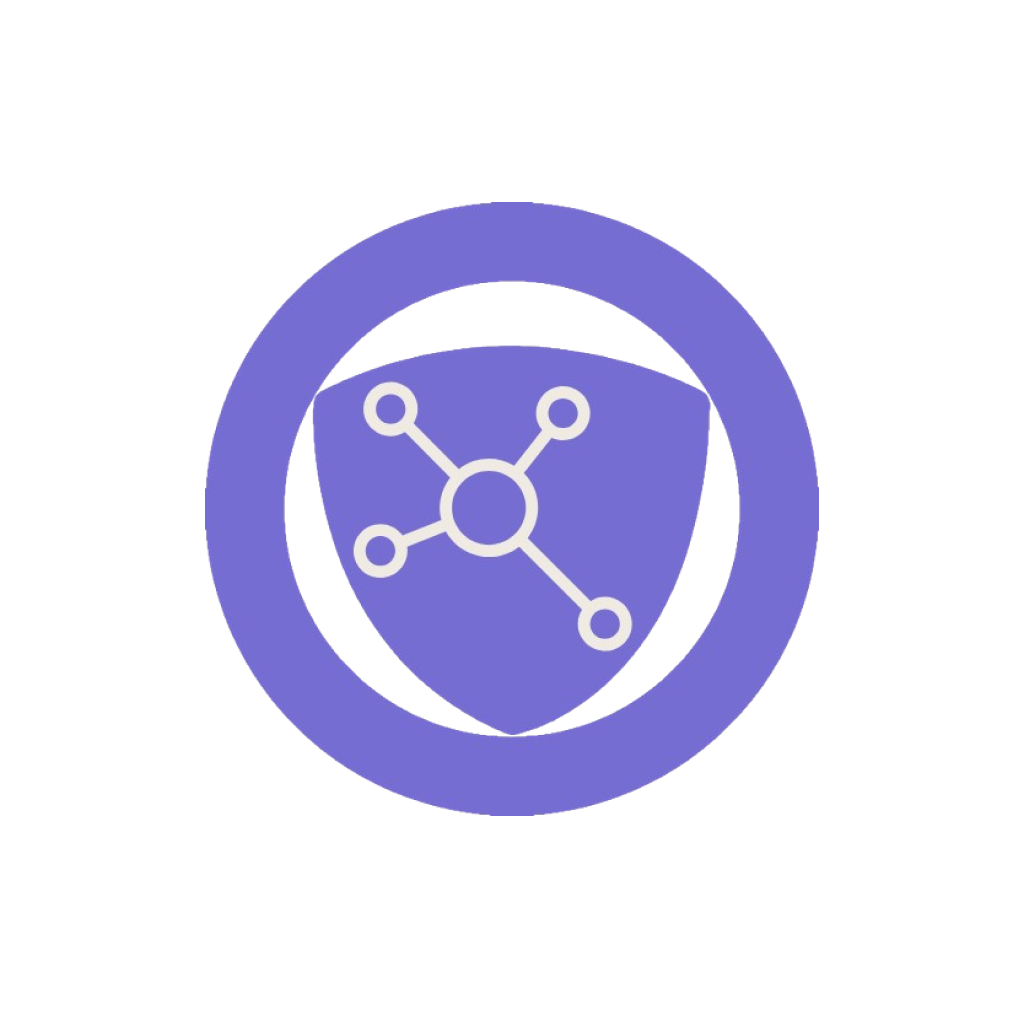
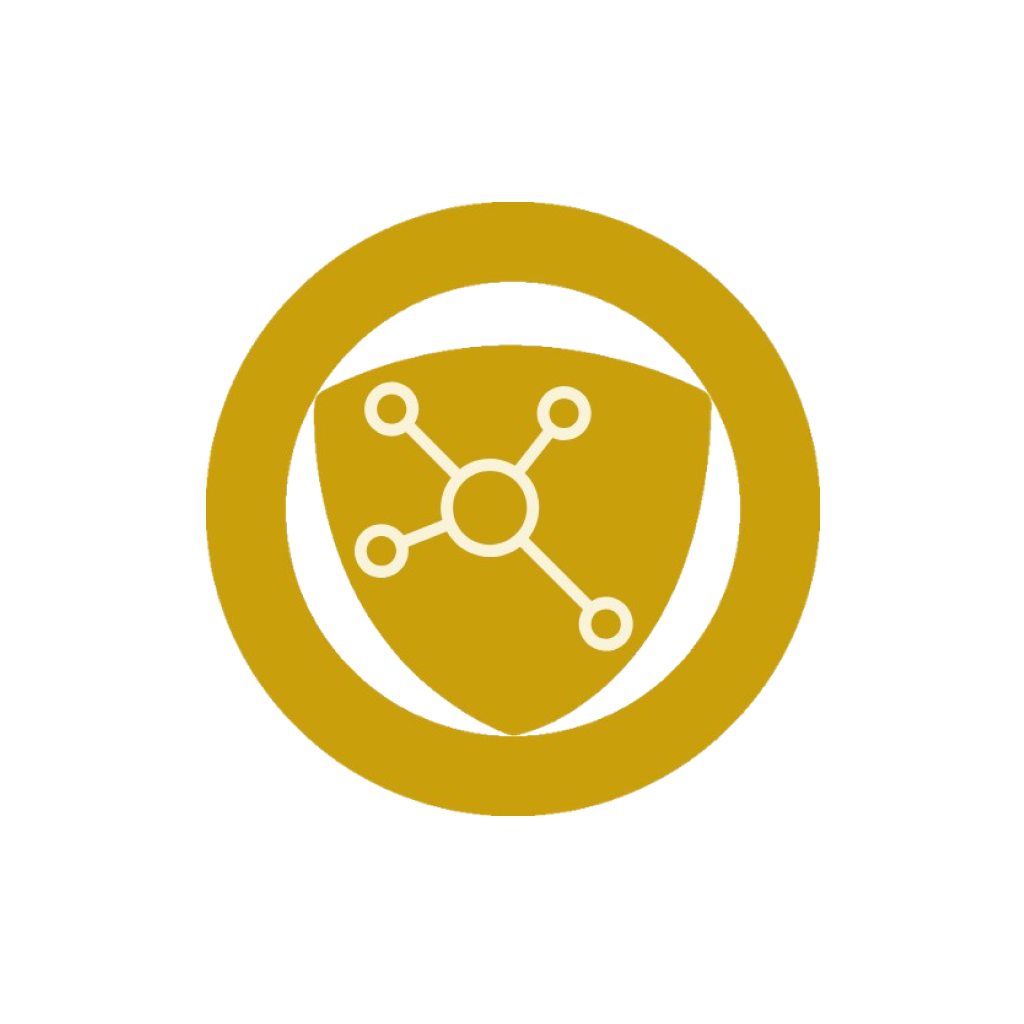
---

Changed region(s): [[0.1875, 0.1875, 0.8125, 0.8125]]

diff --git a/tailwind.config.js b/tailwind.config.js
@@ -5,12 +5,12 @@ module.exports = {
   theme: {
     extend: {
       colors: {
-        primary: "#6A5ACD",
-        primaryLight: "#A89EF5",
-        background: "#EFEAE2",
-        panel: "#E2DBD0",
-        uBlack: "#2D2D2D",
-        uGray: "#676767",
+        primary: "#c49a12",
+        primaryLight: "#F5DB7A",
+        background: "#FAF3DC",
+        panel: "#F0E6C5",
+        uBlack: "#1E1E1E",
+        uGray: "#5F6368",
       },
     },
   },

diff --git a/constants/colors.js b/constants/colors.js
@@ -1,9 +1,9 @@
 export default {
-  primary: "#6A5ACD",
-  primaryLight: "#A89EF5",
-  background: "#EFEAE2",
-  panel: "#E2DBD0",
-  uBlack: "#2D2D2D",
-  uGray: "#676767",
+  primary: "#c49a12",
+  primaryLight: "#F5DB7A",
+  background: "#FAF3DC",
+  panel: "#F0E6C5",
+  uBlack: "#1E1E1E",
+  uGray: "#5F6368",
   uGrayLight: "#9ca3af",
 };
